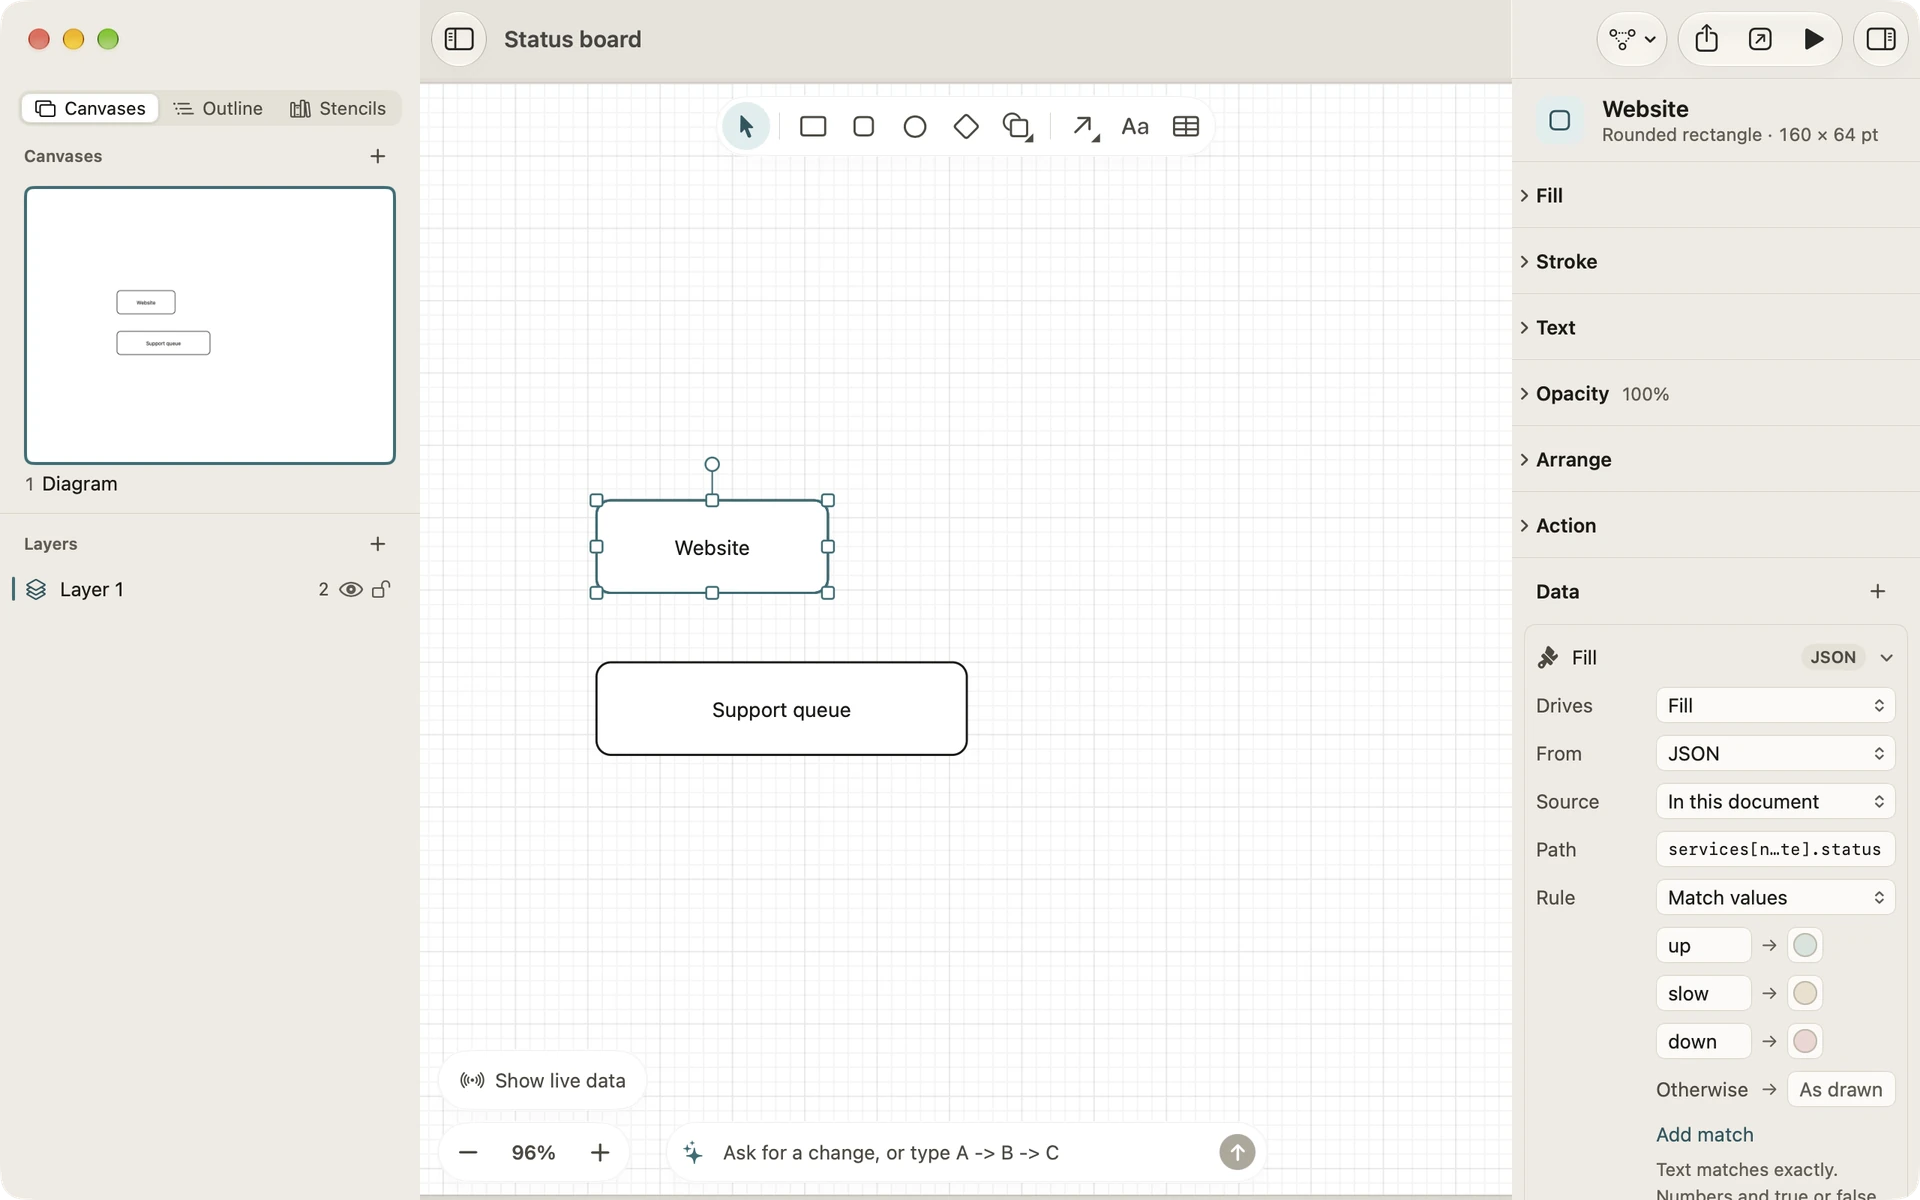
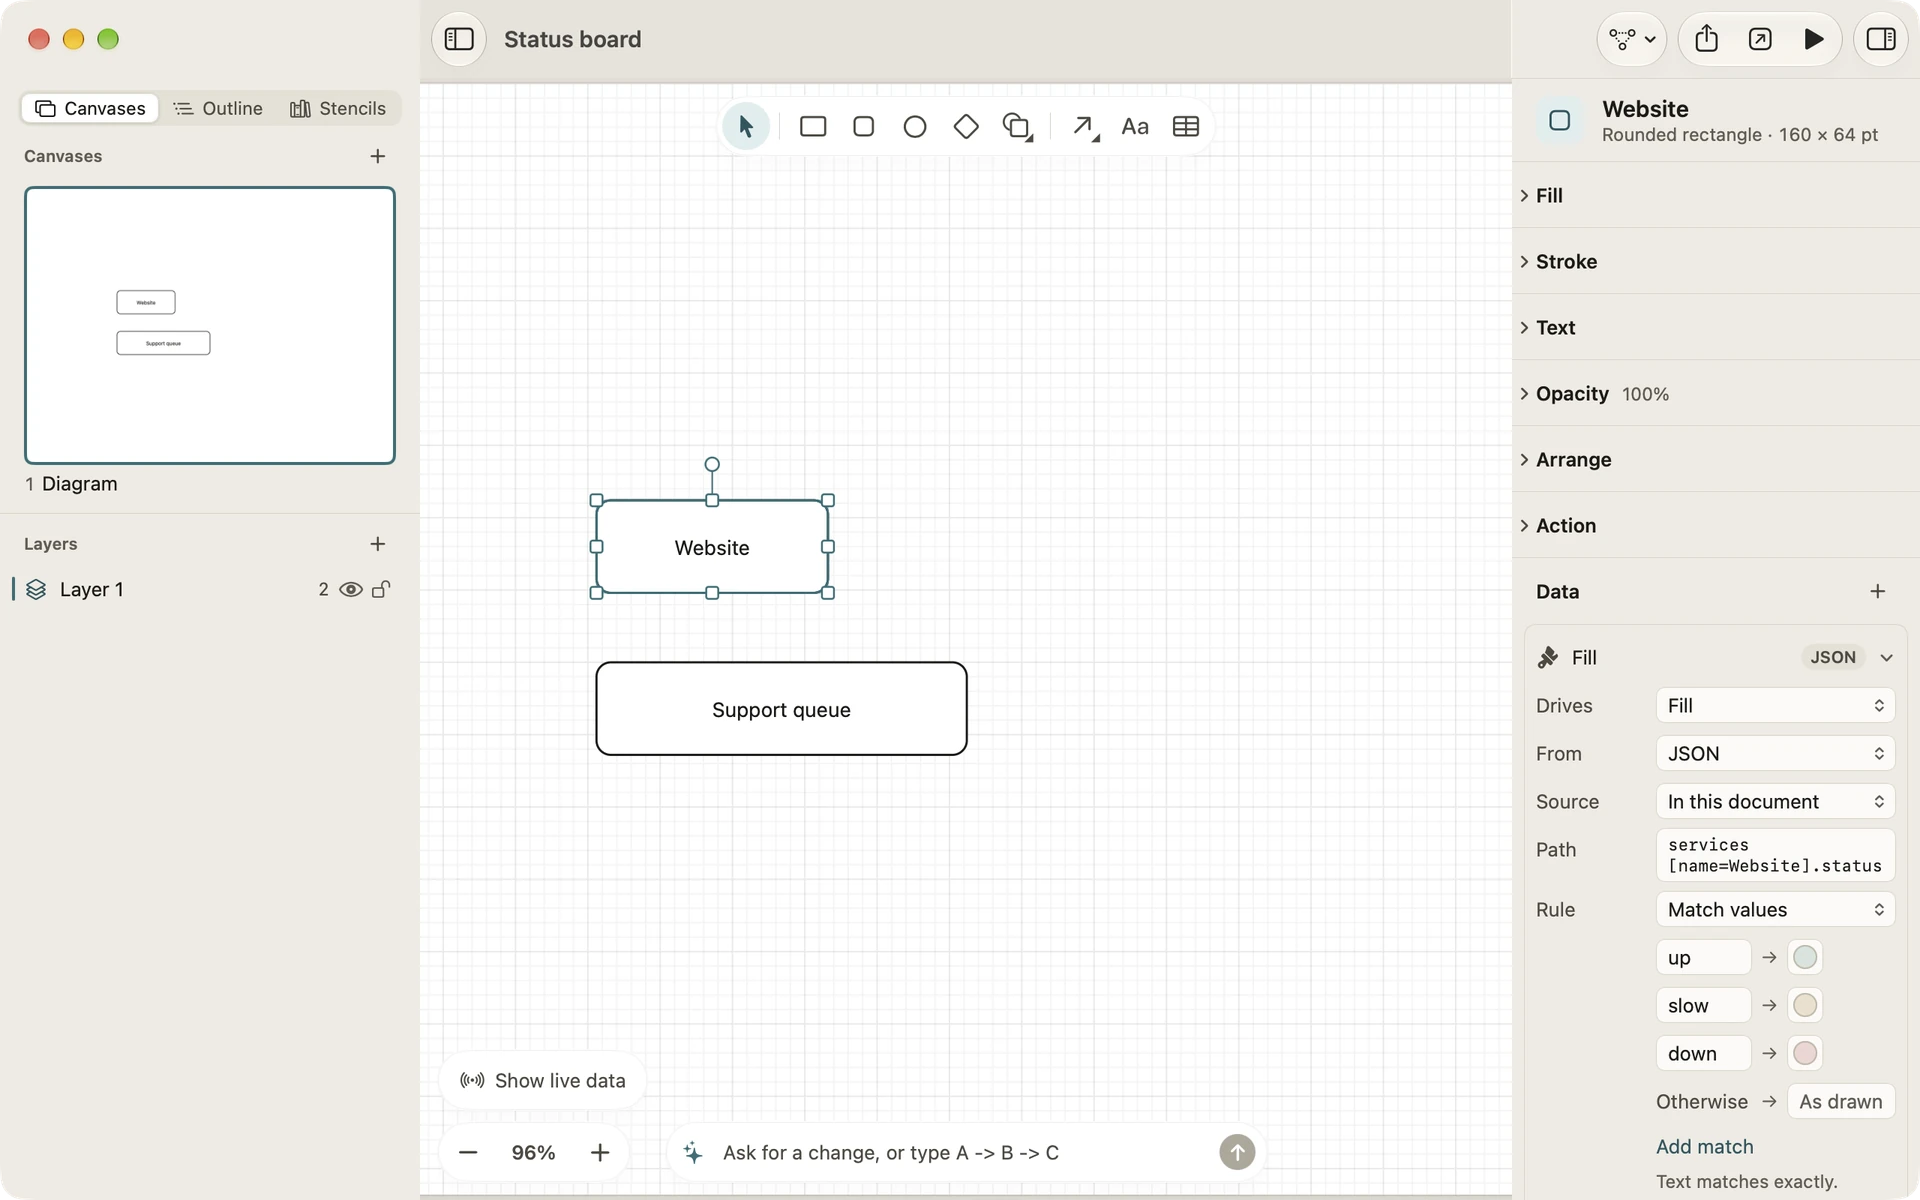
diagrove: live-status-board's match-values and steps taken again with the Path field wrapped in full

Changed region(s): [[0.8438, 0.6783, 1.0, 1.0], [0.7812, 0.74, 0.8125, 0.7708]]

diff --git a/content/diagrove/tutorials/live-status-board.md b/content/diagrove/tutorials/live-status-board.md
@@ -43,7 +43,7 @@ Leave Shop and Email for later: you’ll copy the Website box once its Bindings 
 
 Text matches exactly, so “Up” and “up” are different values. Numbers and true or false match however they’re written.
 
-![The Website box selected, with the inspector’s Data section showing a Fill binding: Drives Fill, From JSON, Source In this document, the path to Website’s status, Rule Match values, and up, slow and down matched to light green, light amber and light red, Otherwise As drawn.](match-values.webp "A Fill binding that matches up, slow and down.")
+![The Website box selected, with the inspector’s Data section showing a Fill binding: Drives Fill, From JSON, Source In this document, Path services[name=Website].status wrapped onto two lines, Rule Match values, and up, slow and down matched to light green, light amber and light red, Otherwise As drawn.](match-values.webp "A Fill binding that matches up, slow and down.")
 
 ## 4. Put the status in its words
 
